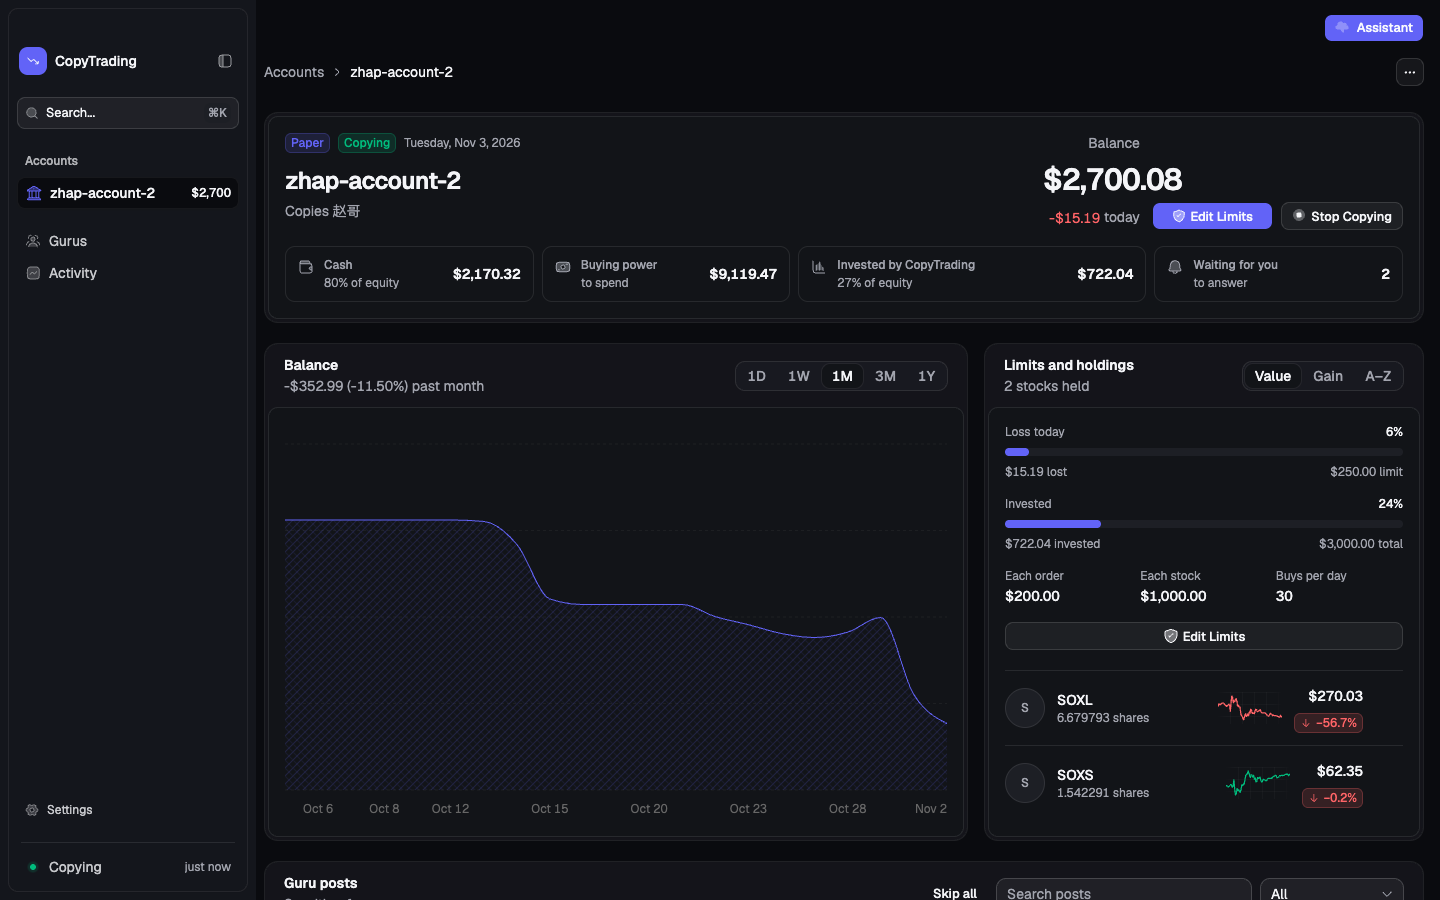
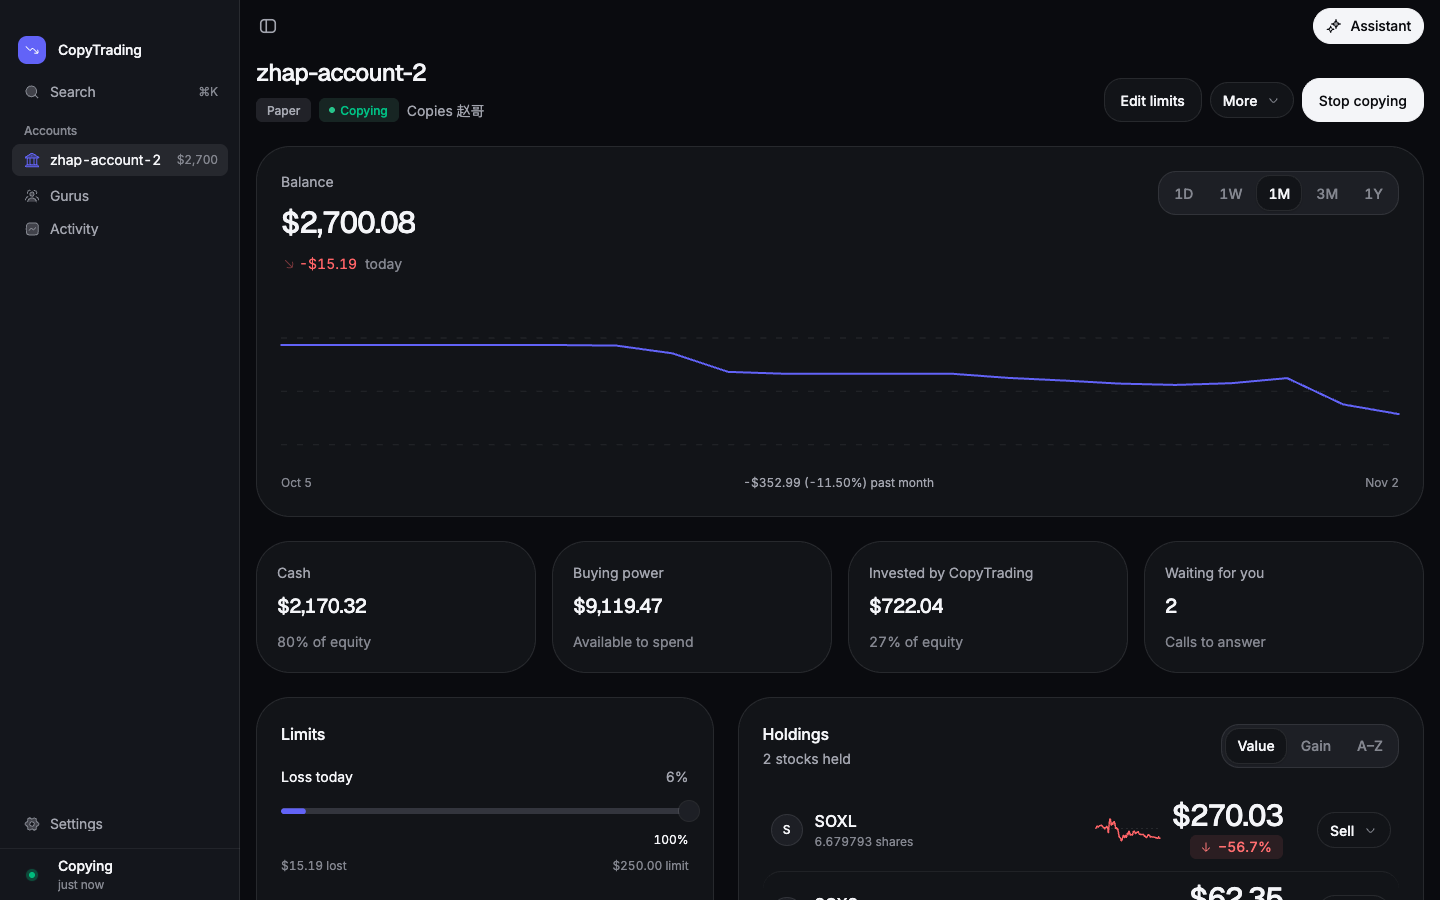
Release 0.1.0-beta.10
Claude-Session: https://claude.ai/code/session_01FSmZjkTWfnTTjHLmHvuQGL

diff --git a/README.md b/README.md
@@ -17,7 +17,7 @@
 </p>
 
 <p align="center">
-  <a href="https://github.com/YZXBiz/copytrading/releases/download/v0.1.0-beta.9/CopyTrading-0.1.0-beta.9.dmg"><img src="https://img.shields.io/badge/Download_for_macOS-0.1.0--beta.9-1d1d1f?style=for-the-badge&logo=apple&logoColor=white" alt="Download CopyTrading for macOS" height="36"></a>
+  <a href="https://github.com/YZXBiz/copytrading/releases/download/v0.1.0-beta.10/CopyTrading-0.1.0-beta.10.dmg"><img src="https://img.shields.io/badge/Download_for_macOS-0.1.0--beta.10-1d1d1f?style=for-the-badge&logo=apple&logoColor=white" alt="Download CopyTrading for macOS" height="36"></a>
 </p>
 
 <p align="center">
@@ -65,6 +65,7 @@ CopyTrading is a macOS app that reads the stock calls traders post on Discord, t
 - **Many traders, many accounts.** Each account follows one guru and sizes its calls from that guru's full position, so several gurus copy side by side into their own accounts, paper and live together.
 - **Every position traces to its post.** Each copied buy is kept as a lot that names the post behind it, and you can sell any lot on its own. Shares you trade yourself in Alpaca are counted as yours on the next sync.
 - **See how a guru is doing.** Each guru's page shows the realized profit of the trades copied from them, their win rate, and their best and worst call; with several gurus, Gurus compares them side by side.
+- **A page for each stock.** Press any ticker to see its daily candles with volume and moving averages, your lots in it, and the guru's calls on it, and sell from there.
 - **Always live.** Balances, positions, and the balance chart are read from your broker even while copying is paused, held prices update every few seconds, and a fill arrives as a notice in the app. The menu bar shows your balance and today's change.
 - **Calls that need you, in one place.** A call the app should not place on its own (a suggestion, a conditional order, a sell of a buy it never made) waits on the account page with **Copy** and **Skip**, or **Skip all**.
 - **Fast to get around.** ⌘K finds any page, account, guru, post, or action; ⌘1 to ⌘4 open Accounts, Gurus, Activity, and Connections; ⌘, opens Settings. Dark and light themes, one consistent icon set, and motion that settles quickly: figures roll to new values, selections slide, and charts draw in once.
@@ -77,7 +78,7 @@ Works with a dozen hosted model services, local models through Ollama, or any Op
 
 You need an Apple silicon Mac running macOS 26 or later.
 
-1. **[Download CopyTrading for macOS](https://github.com/YZXBiz/copytrading/releases/download/v0.1.0-beta.9/CopyTrading-0.1.0-beta.9.dmg)**.
+1. **[Download CopyTrading for macOS](https://github.com/YZXBiz/copytrading/releases/download/v0.1.0-beta.10/CopyTrading-0.1.0-beta.10.dmg)**.
 2. Open the DMG and drag **CopyTrading** into **Applications**.
 3. Open CopyTrading. Preview builds are not yet notarized by Apple, so the first time macOS blocks it: go to **System Settings → Privacy & Security** and choose **Open Anyway**. You only do this once.
 

diff --git a/CHANGELOG.md b/CHANGELOG.md
@@ -2,6 +2,17 @@
 
 User-visible changes for each release are recorded here. Every GitHub release's notes come from its section. See [releases](docs/releases.md) for how a release is cut and [validation](docs/validation.md) for what is and is not proven.
 
+## 0.1.0-beta.10 — developer preview
+
+Every screen redrawn on one calmer design, a page for each stock, and Activity no longer flashes while it loads.
+
+- **One design across the app.** Accounts, Activity, gurus, Settings, Connections, Getting Started and the Assistant share the same type, spacing, cards and controls, in dark (the default) and light.
+- **A page for each stock.** Press any ticker, in a holding, a post, a guru's best or worst call, or a post's details, to open its page: daily candles with volume and 20- and 50-day averages for 1M, 6M or 1Y, your lots in that stock, and the guru's calls on it. Sell works from there with the same confirmation as before.
+- **A new sidebar and ⌘K.** The sidebar collapses to a rail (⌘B) and keeps your accounts with their balances, Gurus, Activity, Settings and the copying status. ⌘K searches pages, accounts, gurus, posts and actions.
+- **Edit Limits and the other account sheets** open in a side drawer with the same checks and the same confirmation before saving.
+- **Settings at narrow widths.** The setup bar fits its content and no longer covers the last section.
+- **Fixed:** Activity's charts flashed between a loading state and partial data while older posts loaded, and the donut and lines redrew each time. They now wait for the whole month and draw once.
+
 ## 0.1.0-beta.9 — developer preview
 
 Polish on the new app: one icon set, motion that settles quickly, a calendar and steppers where you type, and gurus compared side by side.
